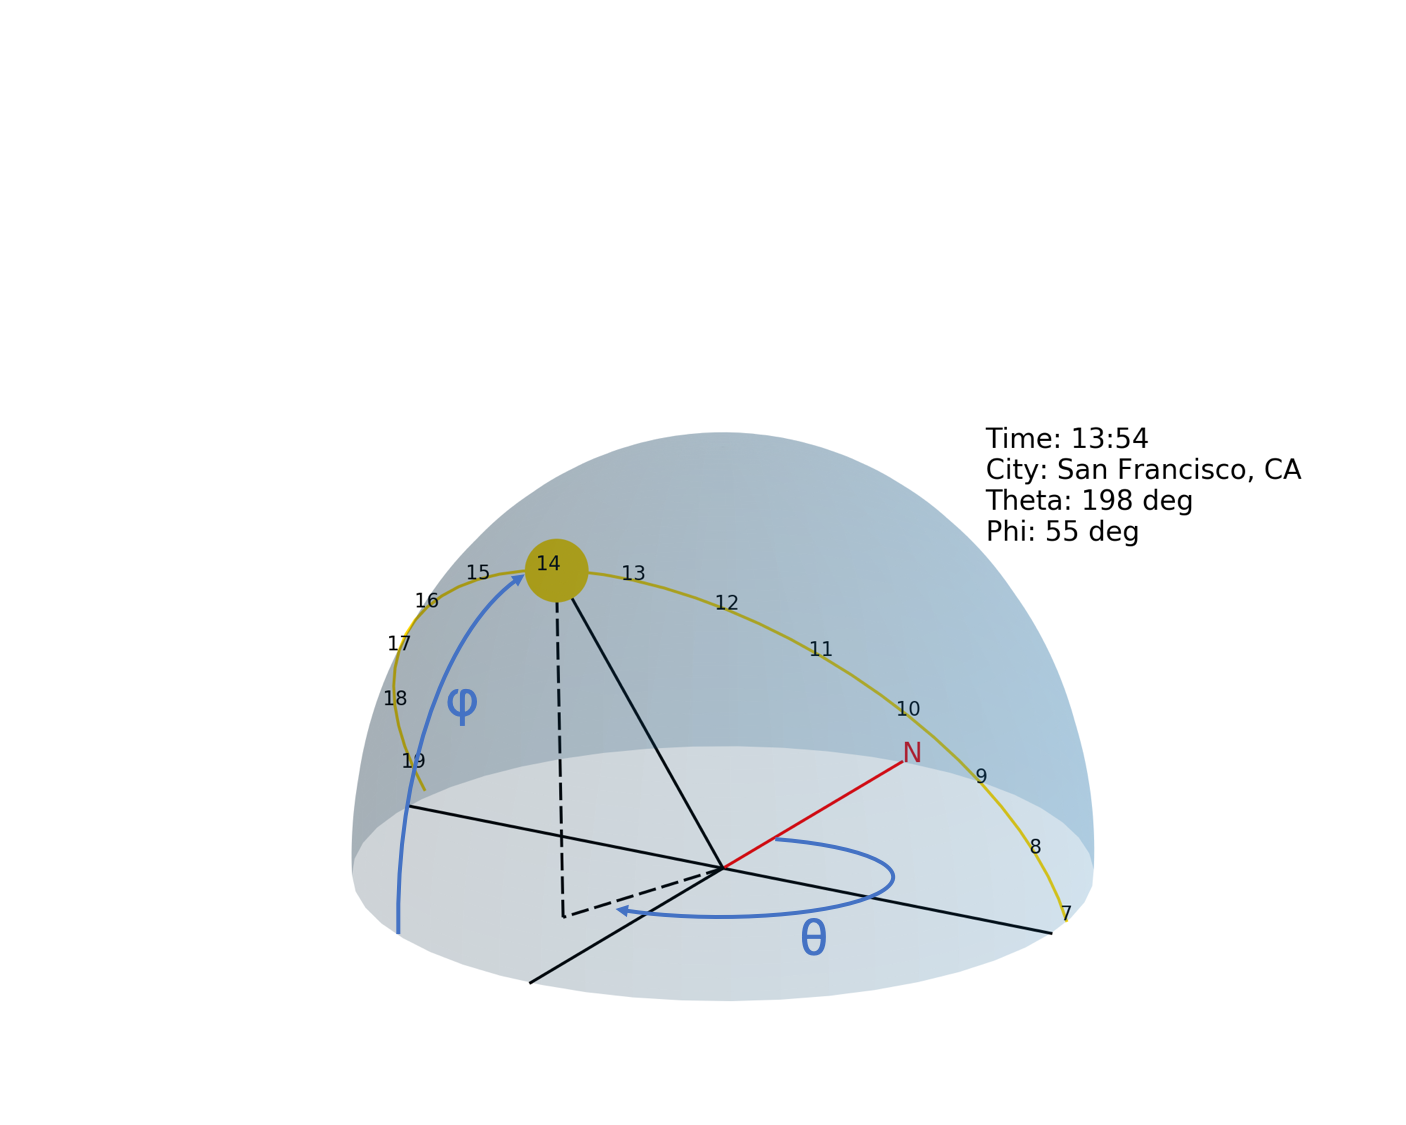
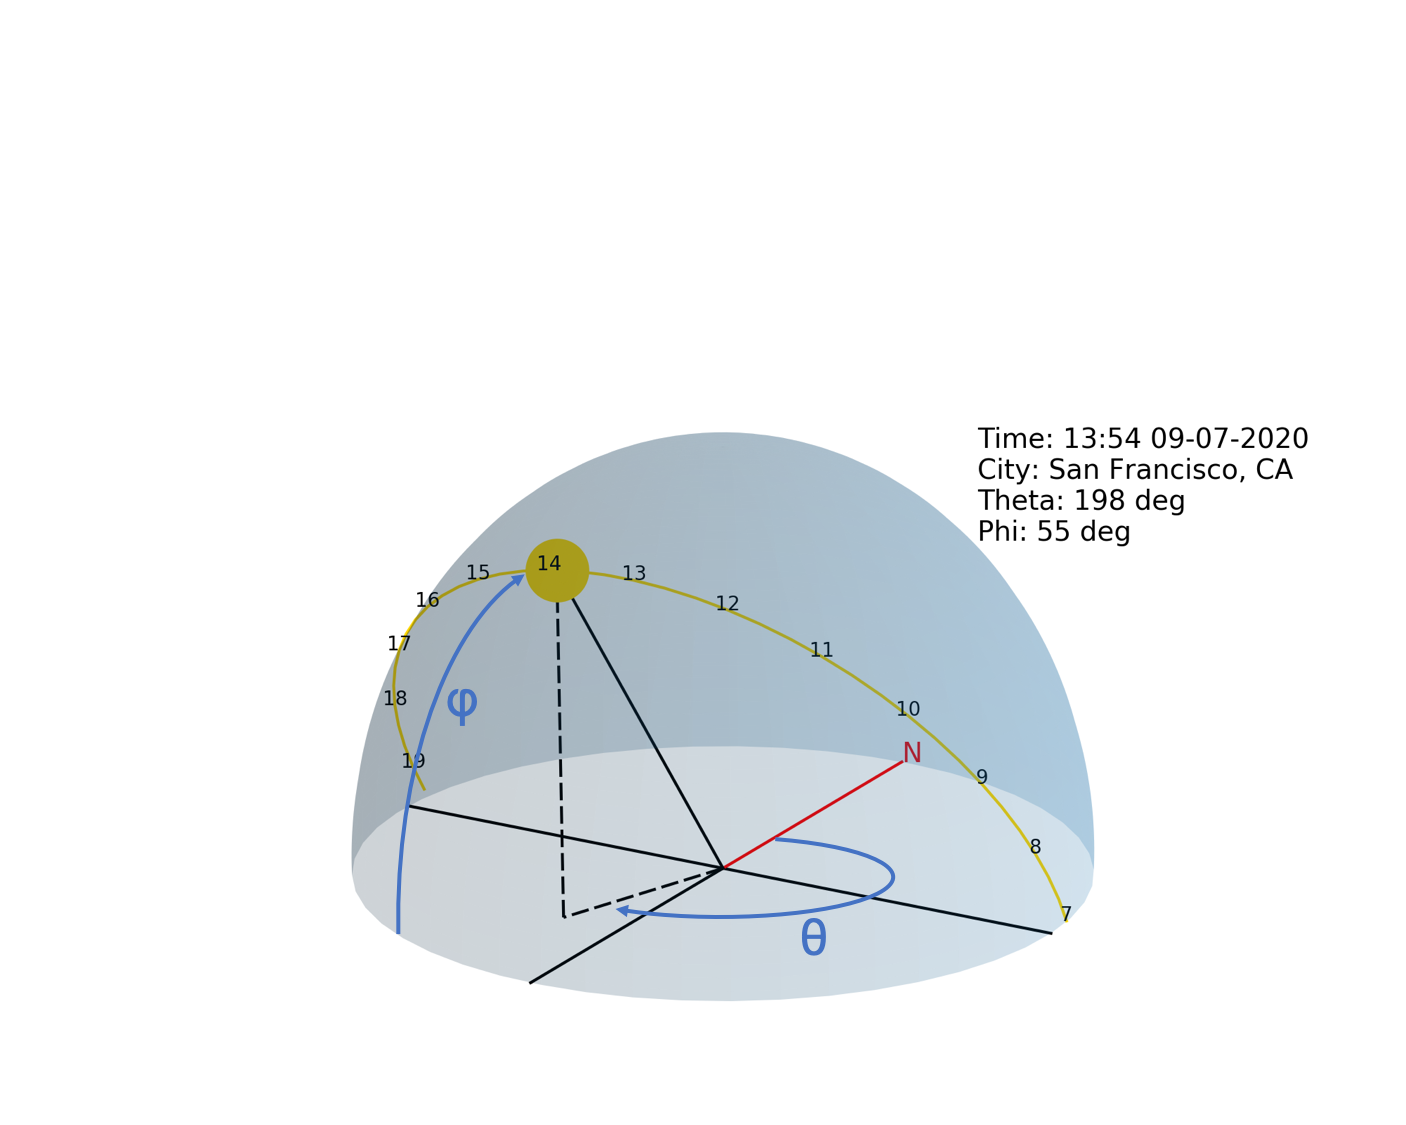
README update

Changed region(s): [[0.7034, 0.3733, 0.9481, 0.4978]]

diff --git a/sun.py b/sun.py
@@ -189,7 +189,7 @@ def make_3D_plot(Theta, Phi, Theta_from_North, Phi_from_Horizon, date_time_local
 	
 	
 	#Text labels on graph
-	time_label = dt.datetime.strftime(date_time_local, '%H:%M')
+	time_label = dt.datetime.strftime(date_time_local, '%H:%M %m-%d-%Y')
 	city_label = 'City: ' + city
 	theta_phi_label = f'Theta: {Theta_from_North} deg\nPhi: {Phi_from_Horizon} deg'
 	label = 'Time: ' + time_label + '\n' + city_label + '\n' + theta_phi_label

diff --git a/README.md b/README.md
@@ -2,7 +2,7 @@
 Get the spherical coordinates of the sun in the sky from any location on earth at any time
 
 ## Quick Summary
-The sun.py script can take in any location in the world, and any time, and outputs the spherical coordinates of the sun from the perpective of a person standing on the earth's surface at that location. This is done using vector addition and coordinate transformations (elaborated on later).
+The sun.py script can take in any location in the world, and any time, and output the spherical coordinates of the sun from the perpective of a person standing on the earth's surface at that location. This is done using vector addition and coordinate transformations (elaborated on later).
 
 The location of the sun is given by two angles:
 * Theta_from_North - angle measured clockwise from due north to the point on the horizon underneath the sun
@@ -23,20 +23,20 @@ Command Line Instructions:
 
 ## Math behind calculations
 
-The key calculation is getting the vector that points from the person on the surface of the earth, to the sun (Vector A in the figure below). 
+The key calculation is getting the vector that points from the person on the surface of the earth, to the sun (Vector C in the figure below). 
 
 ![Figure2](Figures/figure2.png)
 
-This can be calculated simply be adding two vectors: a vector pointing from the center of the sun to the center of the earth (Vector A) and a vector pointing from the center of the earth to the surface of the sun (Vector B).
+This can be calculated simply by adding two vectors: a vector pointing from the center of the sun to the center of the earth (Vector A) and a vector pointing from the center of the earth to the surface of the sun (Vector B).
 
 _**A**_ + _**B**_ = -_**C**_ 
 
 The tricky part of this math is the reference frame (ie coordinate system) of the vectors. Ultimately, we want vector C in the reference frame of a person standing on the surface of the earth. In other words, the origin should be at the person's feet, with x pointing east, y pointing north, and z pointing straight up. The reason we want this is that Theta_from_North and Phi_from_Horizon pop out super easily from those x, y, and z coordinates. Unfortunately, representing vectors _**A**_ and _**B**_ in the earth's surface coordinate system is difficult. However, _**A**_ and _**B**_ can be represented easily in different coordinate systems: _**A**_ can be represented easily in a coordinate system with the origin at the sun, and _**B**_ can be represented easily with an origin at the center of the earth.
 
-To reconcile this challenge, the key is to use coordinate transformations! The basic idea here is that we start with a vector in one coordinate system, transform it to the coordinate system of the vector we want to add it to, and then add that vector without too much trouble since we can represent it easily in the new coordinate system. The workflow is broken down as follows:
+To reconcile this challenge, the key is to use coordinate transformations! The basic idea here is that we start with a vector in one coordinate system, transform it to the coordinate system of the vector we want to add it to, and then add that vector without too much trouble since the 2nd vector can be represented easily in the new coordinate system. The workflow is broken down as follows:
 
 1. Write vector _**A**_, which goes from the center of the sun to the center of the earth, in the sun's coordinate system (origin at center of the sun).
 2. Transform _**A**_ to the coordinate system of the earth (origin is at the center of the earth)
-3. Write _**B**_, which goes from the center of the earth to the earth's surface, in earth's coordinate system.
+3. Write vector _**B**_, which goes from the center of the earth to the earth's surface, in earth's coordinate system.
 4. Add _**A**_(transformed) and _**B**_ to get _**C**_, which is the vector we ultimately want, but is currently in the wrong coordinate system.
 5. Transform _**C**_ into the coordinate system of the earth's surface (origin centered at a person's feet on the surface)
